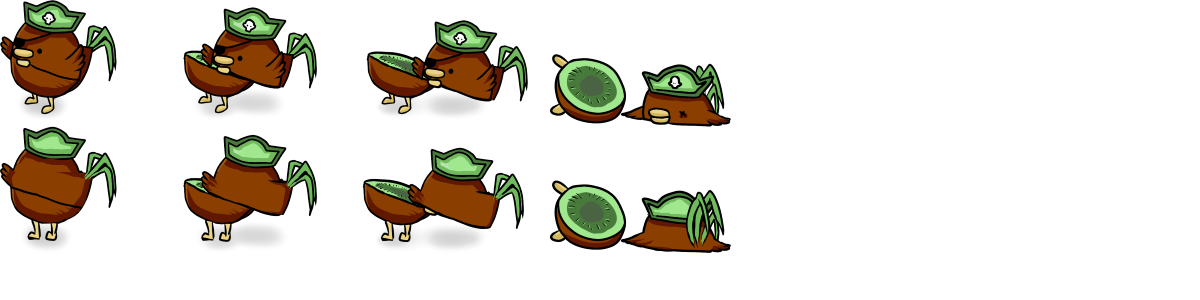
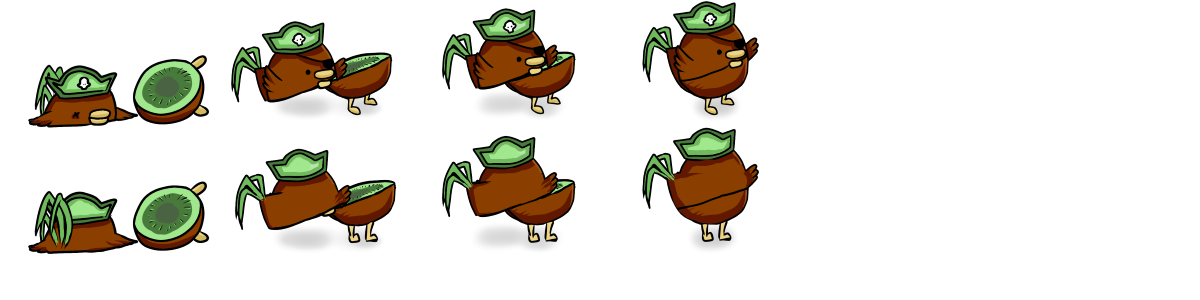
picor

diff --git a/Js client/js/renderer/player-factory.js b/Js client/js/renderer/player-factory.js
@@ -35,10 +35,18 @@ for (var i=1; i<9; i++)
 
 var textures_death_front = []
 var textures_death_back = []
-for (var i=1; i<4; i++)
+for (var i=0; i<4; i++)
 {
-    textures_death_back.push( new PIXI.Texture( death_sp, {width: 180, height: 130, x:  5+ i*180, y: 0 }) )
-    textures_death_front.push( new PIXI.Texture( death_sp, {width: 180, height: 130, x:  5+ i*180, y: 130 }) )
+    textures_death_back.push( new PIXI.Texture( death_sp, {width: 175, height: 130, x: 35 + (3-i)*190, y: 0 }) )
+    textures_death_front.push( new PIXI.Texture( death_sp, {width: 175, height: 130, x: 35 + (3-i)*190, y: 130 }) )
+}
+
+var textures_pic_front = []
+var textures_pic_back = []
+for (var i=0; i<5; i++)
+{
+    textures_pic_back.push( new PIXI.Texture( pic_sp, {width: 130, height: 140, x:  i*130, y: 0 }) )
+    textures_pic_front.push( new PIXI.Texture( pic_sp, {width: 130, height: 140, x:  i*130, y: 150 }) )
 }
 
 var textures_null_front = [ new PIXI.Texture( run_sp, {width: 1, height: 1, x: 0, y: 0 }) ]
@@ -58,7 +66,7 @@ var textures = {
         front: textures_death_front,
         back: textures_death_back,
         speed: 0.04,
-        noLoop: true
+        //noLoop: true
     },
     fire : {
         front: textures_fire_front,
@@ -71,11 +79,16 @@ var textures = {
         back: textures_null_front,
         speed: 0.11,
         noLoop: true
+    },
+    picor : {
+        front: textures_pic_front,
+        back: textures_pic_back,
+        speed: 0.11
     }
 }
 
 var setState = function( label, frontOrBack, sens ){
-
+    
     this.removeChildren()
 
     var m = this.mc[ label ][ frontOrBack ]
